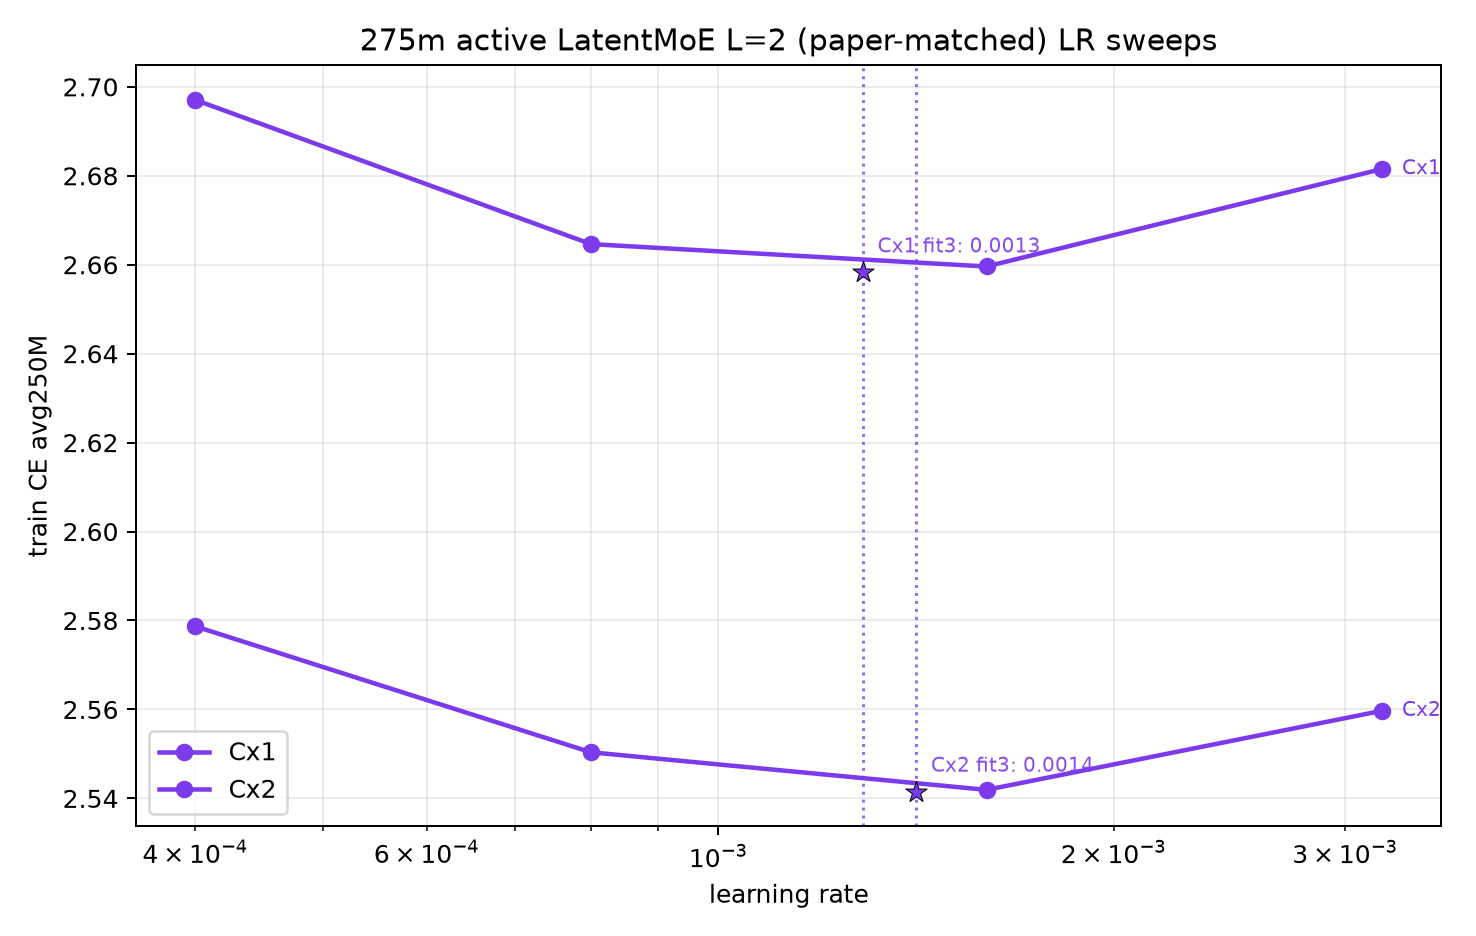
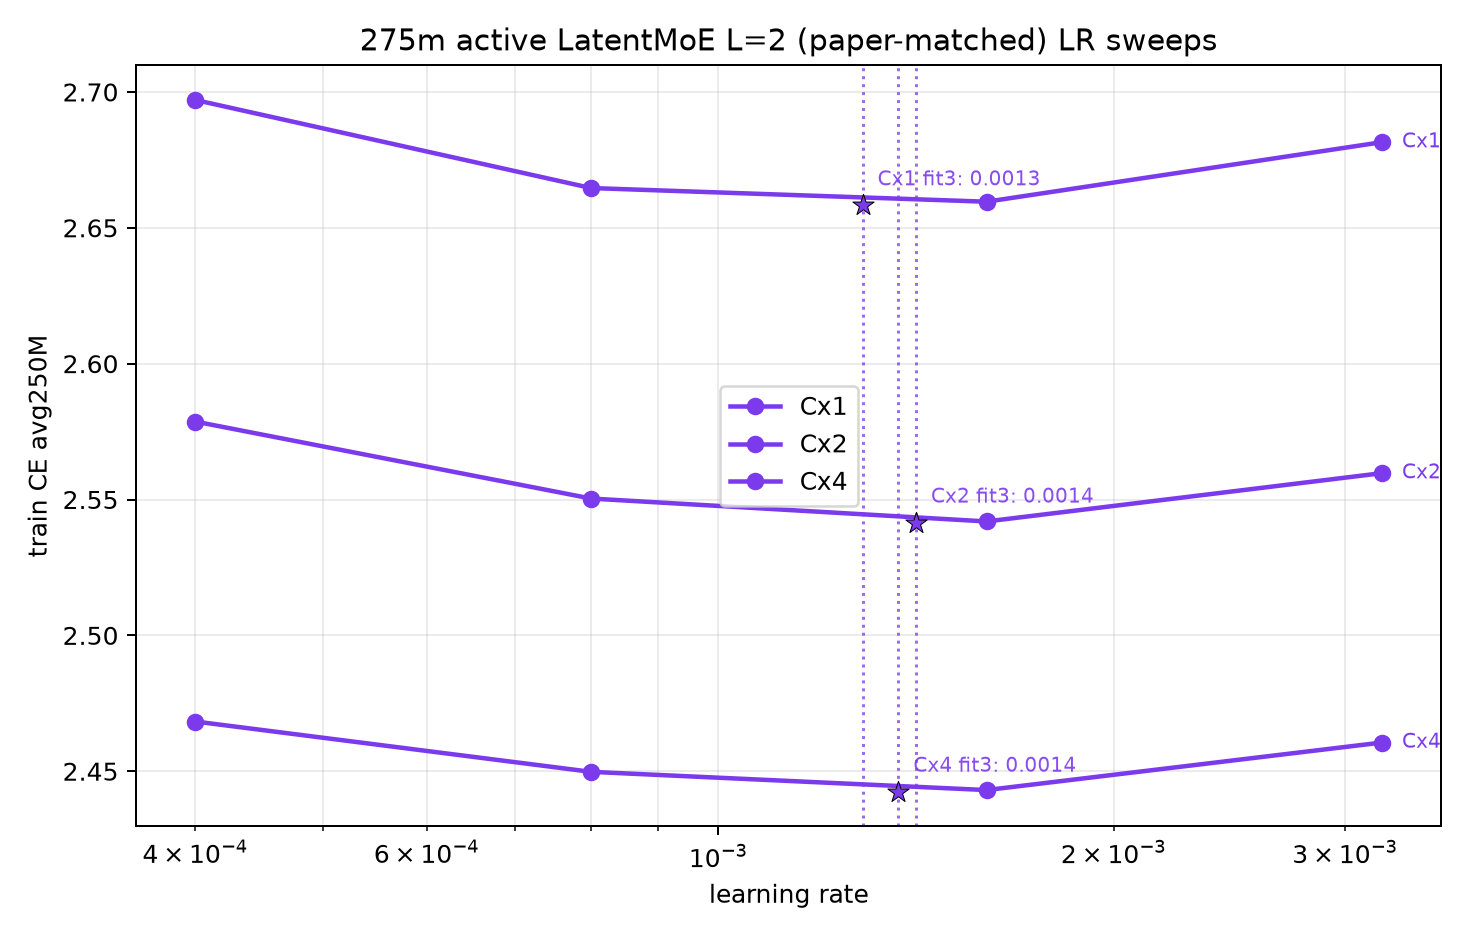
Refresh LatentMoE pretraining results

diff --git a/src/scripts/train/jacobm_olmoe_ladder/v2/plot_kda_latent_moe.py b/src/scripts/train/jacobm_olmoe_ladder/v2/plot_kda_latent_moe.py
@@ -37,7 +37,10 @@ MODELS = ("275m", "480m", "810m", "1p2b")
 L2_KEY = "geometry_kda_ev2_neg_nope_gated_latentmoe_l2_paper"
 L4_KEY = "geometry_kda_ev2_neg_nope_gated_latentmoe_l4_1000e"
 ACTIVE_PARAMETERS = {
-    L2_KEY: {"275m": 295_664_448},
+    L2_KEY: {
+        "275m": 295_664_448,
+        "480m": 509_751_648,
+    },
     L4_KEY: {"275m": 296_632_128},
 }
 
@@ -68,6 +71,22 @@ def _planned_names() -> dict[str, list[tuple[str, int, float, str]]]:
                         ),
                     )
                 )
+    planned[L2_KEY].extend(
+        (
+            (
+                "480m",
+                1,
+                1.2e-3,
+                "pt-480m-kda-ev2-neg-nope-gated-latentmoe-l2-paper-cx1-lr1p2e-3-r1",
+            ),
+            (
+                "480m",
+                2,
+                9e-4,
+                "pt-480m-kda-ev2-neg-nope-gated-latentmoe-l2-paper-cx2-lr9e-4-r1",
+            ),
+        )
+    )
     return planned
 
 
@@ -136,7 +155,7 @@ def comparison_wave(kda: Variant, l2: Variant, l4: Variant) -> Wave:
         uplot_baselines=False,
         model_mode_labels={
             "275m": "observed-best LR sweep",
-            "480m": "pending scale config",
+            "480m": "wide-LR transfer",
             "810m": "pending scale config",
             "1p2b": "pending scale config",
         },
@@ -165,6 +184,7 @@ def plot_best_of(
             and point.variant in eligible
             and point.cx in eligible[point.variant]
         )
+        or (point.model != "275m" and point.variant == l2.key)
     ]
     return plot_fixed_lr_scale_comparison(
         filtered,
@@ -207,6 +227,9 @@ def write_results(
                 }
             )
 
+    scale_rows = [
+        asdict(point) for point in points if point.variant == l2.key and point.model != "275m"
+    ]
     payload = {
         "generated_at": generated_at,
         "project": PROJECT,
@@ -221,6 +244,7 @@ def write_results(
         "unresolved_planned_runs": unresolved,
         "runs": [asdict(point) for point in points],
         "results": rows,
+        "scale_results": scale_rows,
     }
     json_path = output_path.with_suffix(".json")
     md_path = output_path.with_suffix(".md")
@@ -255,6 +279,23 @@ def write_results(
             f"{observed} | {predicted} |"
         )
     pending = sum(len(names) for names in unresolved.values())
+    lines.extend(
+        [
+            "",
+            "## Larger-size transferred-LR results",
+            "",
+            "| Model | Cx | LR | Final-250M CE | Tokens | W&B |",
+            "|---|---:|---:|---:|---:|---|",
+        ]
+    )
+    for row in scale_rows:
+        lines.append(
+            f"| {row['model']} | Cx{row['cx']} | {row['lr']:.2g} | "
+            f"{row['loss']:.6f} | {row['tokens_b']:.3f}B | "
+            f"[{row['run_id']}]({row['url']}) |"
+        )
+    if not scale_rows:
+        lines.append("| — | — | — | — | — | no finished scale runs |")
     lines.extend(["", f"Uninitialized planned W&B runs: `{pending}`."])
     md_path.write_text("\n".join(lines) + "\n")
     return json_path, md_path

diff --git a/src/scripts/train/jacobm_olmoe_ladder/v2/RUNS.md b/src/scripts/train/jacobm_olmoe_ladder/v2/RUNS.md
@@ -9,7 +9,8 @@ job IDs and W&B IDs once they exist. Detailed migration-era DDP jobs remain in
 Rows are updated as their corresponding collectors run; detailed sections
 retain the full launch and retry history. The canonical GDN2/KDA, new KDA
 transfer, MXFP8, LatentMoE, and validation rows were refreshed at
-2026-07-29 15:49 UTC.
+2026-07-29 15:49 UTC. LatentMoE losses and live statuses were refreshed again
+at 2026-07-30 04:28 UTC.
 
 | Stage | Family / cell | State | Progress / result | Current W&B |
 |---|---|---|---|---|
@@ -35,7 +36,8 @@ transfer, MXFP8, LatentMoE, and validation rows were refreshed at
 | pretraining | canonical KDA 480M stability transfer | 4/4 finished | Cx1/2/4/8 strict final-250M CEs are `2.517826`, `2.412884`, `2.323228`, and `2.237558` | [launches](#canonical-kda-480m-stability-transfer) |
 | pretraining | KDA `expand_v=2`, negative-eigenvalue transfer (275M/480M/810M/1.2B) | 14 finished / 2 running | 810M is 4/4; 1.2B Cx1/Cx2 finished at strict final-250M CE `2.236574`/`2.146299`. The distributed Cx4/Cx8 continuations are healthy at steps `146,270/171,359` (85.4%, ETA 6h08m) and `183,000/228,478` (80.1%, ETA 8h53m), respectively. No failures in this KDA family. | [results](results/pretraining/canonical_gdn2_kda/kda_ev2_neg_scale_results.md) / [launches](#kda-expand_v2-negative-eigenvalue-transfer) |
 | qualification | LatentMoE PR #799, full-width-router controls, and 275M parameter-matched configs | 1,000-expert EP1 replacement qualified | Paper-matched 2× and exact 4× are 295.664M/296.770M active params. The selected 4× EP1 approximation uses exactly 1,000 experts/top-32 and is 296.632M active / 3.073B stored. Its exact-2-Mi result is 180.0K TPS/GPU and 280.4 TFLOPs/GPU; physical-max MB11 reaches 182.9K/284.9. Both 50-step runs have zero skips. | [plan and results](LATENT_MOE.md) / [capacity](https://beaker.org/orgs/ai2/workspaces/OLMo-3-moe-experiments/work/01KYP96YAGZ4CZCZBT87NHSA5X) / [throughput](https://beaker.org/orgs/ai2/workspaces/OLMo-3-moe-experiments/work/01KYPA1GYA09H78GCVT3PQ1TZH) |
-| pretraining | LatentMoE 275M LR sweeps | 16/32 finished; 16 Cx4/Cx8 cells submitted | Both L2 and the 1,000-expert L4 replacement have bracketed Cx1/Cx2 curves selecting `1.6e-3`. Cx4 is allocated (`4h`, 32 GPUs total); Cx8 is unallocated (`0m`, 64 GPUs total). | [results](results/pretraining/kda_latent_moe/results.md) / [Cx4 work](https://beaker.org/orgs/ai2/workspaces/OLMo-3-moe-experiments/work/01KYQS79P3JFX4SSB4AM7B8CDK) / [Cx8 work](https://beaker.org/orgs/ai2/workspaces/OLMo-3-moe-experiments/work/01KYQS7J3NBH1TFX6Y1FGQ7WM2) |
+| pretraining | LatentMoE 275M LR sweeps | 20/32 finished; 12 running | L2 Cx4 is complete and bracketed, selecting `1.6e-3` with strict final-250M CE `2.443058`. L4 Cx4 and all eight Cx8 cells remain healthy/running. | [results](results/pretraining/kda_latent_moe/results.md) / [Cx4 work](https://beaker.org/orgs/ai2/workspaces/OLMo-3-moe-experiments/work/01KYQS79P3JFX4SSB4AM7B8CDK) / [Cx8 work](https://beaker.org/orgs/ai2/workspaces/OLMo-3-moe-experiments/work/01KYQS7J3NBH1TFX6Y1FGQ7WM2) |
+| pretraining | LatentMoE L=2 480M promotion | Cx1 finished; Cx2 running | Cx1 finished cleanly with transferred LR `1.2e-3` and strict final-250M CE `2.463192`, improving `0.029091` over matching non-latent KDA Cx1. | [results](results/pretraining/kda_latent_moe/results.md) / [Cx1](https://beaker.org/orgs/ai2/workspaces/OLMo-3-moe-experiments/work/01KYQV7G4MX67GCYSFPMWEB1J8) / [Cx2](https://beaker.org/orgs/ai2/workspaces/OLMo-3-moe-experiments/work/01KYQYM4F8JFXHDX1RXQE7913R) |
 | pretraining | aggressive MXFP8 KDA 275M LR sweep | 16/16 finished | All Cx curves are complete and bracketed. Observed best is `1.6e-3` throughout, with strict final-250M CE `2.685399`, `2.566948`, `2.463998`, and `2.383008` at Cx1/2/4/8. | [results](results/pretraining/kda_mxfp8/results.md) / [work](https://beaker.org/orgs/ai2/workspaces/OLMo-3-moe-experiments/work/01KYJPTZ3J4VHGBH0FSVAQRDGC) |
 | pretraining | aggressive MXFP8 KDA 480M transferred-LR continuation | 1 finished / 3 intentionally canceled | Cx1 finished at strict final-250M CE `2.497288`, `+0.005005` versus matching BF16 KDA; Cx2/Cx4/Cx8 were paused after the matched throughput audit found a 42--62% regression; durable checkpoints retained | [results](results/pretraining/kda_mxfp8/results.md) / [launches](#480m-aggressive-mxfp8-kda-transferred-lr-continuation) |
 | throughput | aggressive MXFP8 KDA 480M qualification | 2/2 finished | MB8/8-GPU: 192.7 TFLOPs/GPU, 69.8K TPS/GPU, 146.6/193.2 GiB active/reserved; MB6/16-GPU: 132.5 TFLOPs/GPU, 48.0K TPS/GPU, 111.1/155.7 GiB; zero skipped steps | [one node](https://beaker.org/orgs/ai2/workspaces/OLMo-3-moe-experiments/work/01KYKK27K7N1MVV702AKJ2DST8) / [two nodes](https://beaker.org/orgs/ai2/workspaces/OLMo-3-moe-experiments/work/01KYKK2A58MK03ANV6GAAZPAVG) |

diff --git a/src/scripts/train/jacobm_olmoe_ladder/v2/results/pretraining/kda_latent_moe/results.md b/src/scripts/train/jacobm_olmoe_ladder/v2/results/pretraining/kda_latent_moe/results.md
@@ -1,6 +1,6 @@
 # KDA LatentMoE paper-matched pretraining
 
-Generated: `2026-07-29T20:45:08.523753+00:00`
+Generated: `2026-07-30T04:27:50.838932+00:00`
 
 Metric: final `250M`-token mean training CE. The best-of plot uses observed finished points only after a curve is bracketed.
 
@@ -8,11 +8,17 @@ Metric: final `250M`-token mean training CE. The best-of plot uses observed fini
 |---|---:|---:|---|---|---|
 | LatentMoE L=2 (paper-matched) | Cx1 | 4/4 | bracketed | 2.659602 @ 0.0016 | 2.658280 @ 0.0013 |
 | LatentMoE L=2 (paper-matched) | Cx2 | 4/4 | bracketed | 2.541918 @ 0.0016 | 2.541502 @ 0.0014 |
-| LatentMoE L=2 (paper-matched) | Cx4 | 0/4 | — | — | — |
+| LatentMoE L=2 (paper-matched) | Cx4 | 4/4 | bracketed | 2.443058 @ 0.0016 | 2.442457 @ 0.0014 |
 | LatentMoE L=2 (paper-matched) | Cx8 | 0/4 | — | — | — |
 | LatentMoE L=4 (1,000 experts/top-32) | Cx1 | 4/4 | bracketed | 2.663658 @ 0.0016 | 2.663635 @ 0.0016 |
 | LatentMoE L=4 (1,000 experts/top-32) | Cx2 | 4/4 | bracketed | 2.555501 @ 0.0016 | 2.555500 @ 0.0016 |
 | LatentMoE L=4 (1,000 experts/top-32) | Cx4 | 0/4 | — | — | — |
 | LatentMoE L=4 (1,000 experts/top-32) | Cx8 | 0/4 | — | — | — |
 
-Uninitialized planned W&B runs: `6`.
+## Larger-size transferred-LR results
+
+| Model | Cx | LR | Final-250M CE | Tokens | W&B |
+|---|---:|---:|---:|---:|---|
+| 480m | Cx1 | 0.0012 | 2.463192 | 8.654B | [meyce8po](https://wandb.ai/ai2-llm/jacobm-olmoe-ladder/runs/meyce8po) |
+
+Uninitialized planned W&B runs: `0`.

diff --git a/src/scripts/train/jacobm_olmoe_ladder/v2/LATENT_MOE.md b/src/scripts/train/jacobm_olmoe_ladder/v2/LATENT_MOE.md
@@ -277,6 +277,17 @@ and seven were queued as backfill. The durable manifests are
 and
 [`275m_kda_latent_moe_lr_sweep_cx8_unallocated.yaml`](launchers/pretraining/manifests/275m_kda_latent_moe_lr_sweep_cx8_unallocated.yaml).
 
+At the 2026-07-30 04:28 UTC refresh, all four L=2 Cx4 cells finished cleanly.
+The curve is complete and bracketed: its observed best is `2.443058 @
+1.6e-3`, and its diagnostic quadratic fit is `2.442457 @ 1.37e-3`. All four
+L=4 Cx4 cells and all eight Cx8 cells are running without a failed attempt.
+
+The promoted 480M L=2 Cx1 run also finished cleanly at transferred LR
+`1.2e-3`, with strict final-250M CE `2.463192`. That is `0.029091` lower than
+the matching non-latent KDA Cx1 result (`2.492283`). The 480M Cx2 run remains
+healthy and running. These scale results now flow into
+[`plot_kda_latent_moe.py`](plot_kda_latent_moe.py) and the shared best-of plot.
+
 ## Proposed larger LatentMoE configs
 
 The scale-up parent should remain the already-trained BF16 KDA family with our
